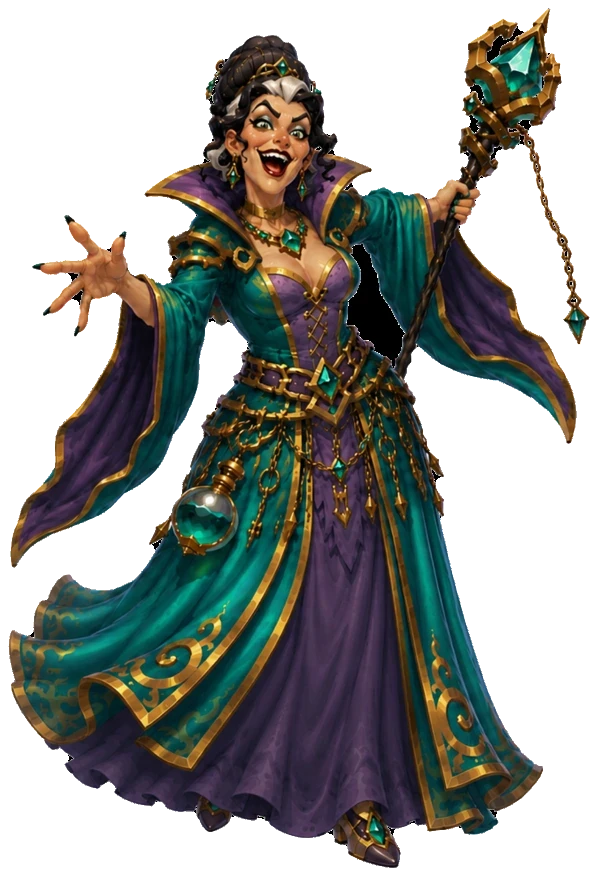
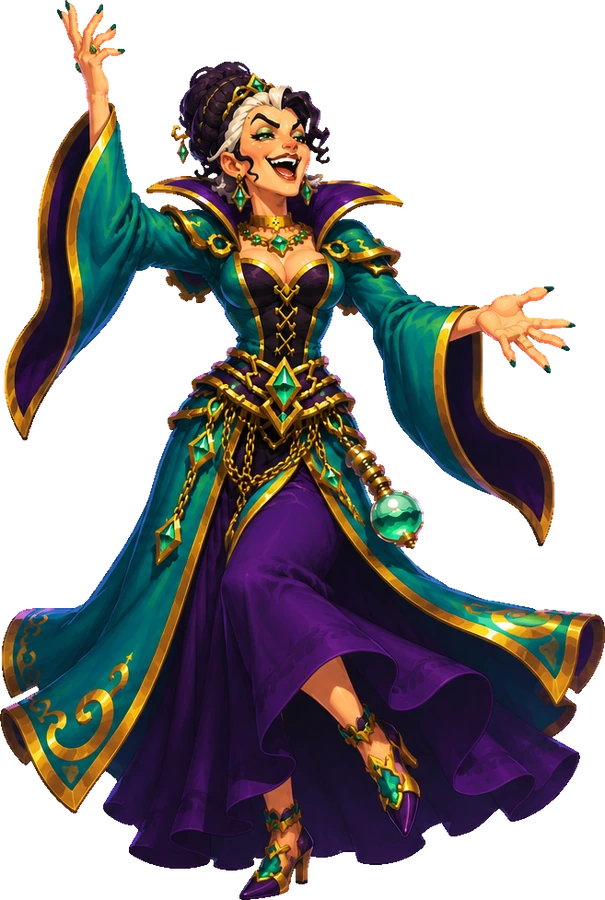
Lady Gothel: fresh art for arrival, failed result, and steal scene
Swap in the new hand-cleaned Gothel poses (crisp edges, no dark fringe):
her customer-arrival portrait, her angry "wish failed" result face, and the
three story slides where she gloats about stealing an ingredient next round
(confident / sly / laugh). Also refreshed her happy result face so all her
result-screen expressions match the new style. Her allergy reactions
(bald/beard) and King's Courtyard intro art are untouched.

Claude-Session: https://claude.ai/code/session_01LXqynh2272HPNfiS49TDfc

diff --git a/docs/index.html b/docs/index.html
@@ -9,10 +9,10 @@
 <meta name="apple-mobile-web-app-title" content="Wish Pop">
 <meta name="mobile-web-app-capable" content="yes">
 <title>Wish Pop: Bubble Shop</title>
-<link rel="manifest" href="manifest.webmanifest?v=604">
-<link rel="apple-touch-icon" href="apple-touch-icon.png?v=604">
-<link rel="icon" type="image/png" href="icon-192.png?v=604">
-<link rel="stylesheet" href="css/styles.css?v=604">
+<link rel="manifest" href="manifest.webmanifest?v=605">
+<link rel="apple-touch-icon" href="apple-touch-icon.png?v=605">
+<link rel="icon" type="image/png" href="icon-192.png?v=605">
+<link rel="stylesheet" href="css/styles.css?v=605">
 
 
 </head>
@@ -42,11 +42,11 @@
   <p class="muted">Wish Pop is played upright. Turn your phone back to keep making wishes come true!</p>
 </div>
 
-<script src="js/audio.js?v=604"></script>
-<script src="js/data.js?v=604"></script>
-<script src="js/engine.js?v=604"></script>
-<script src="js/art.js?v=604"></script>
-<script src="js/ui.js?v=604"></script>
+<script src="js/audio.js?v=605"></script>
+<script src="js/data.js?v=605"></script>
+<script src="js/engine.js?v=605"></script>
+<script src="js/art.js?v=605"></script>
+<script src="js/ui.js?v=605"></script>
 
 
 <script>

diff --git a/docs/js/ui.js b/docs/js/ui.js
@@ -7,7 +7,7 @@
 
 const { R, newRound, applyTripleMatch, scoreMix, scoreResult, BALANCE } = ENGINE;
 const D = DATA;
-const BUILD = "v604"; // bump on each deploy; shown on the start screen to verify the live version
+const BUILD = "v605"; // bump on each deploy; shown on the start screen to verify the live version
 
 
 if (typeof ART !== "undefined" && ART.setVersion) ART.setVersion(BUILD); // cache-bust all art per build so updated images always refetch
